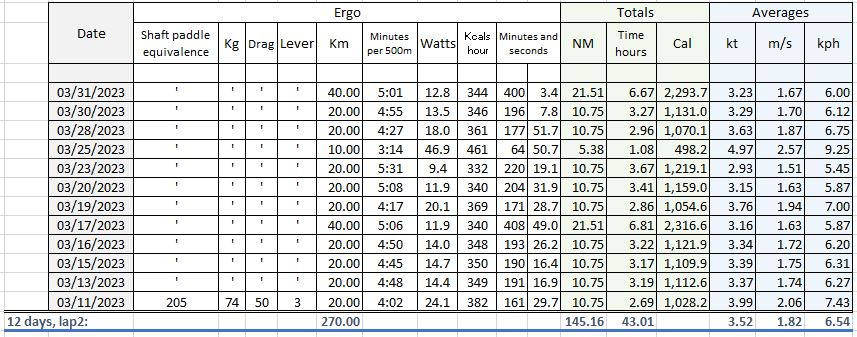
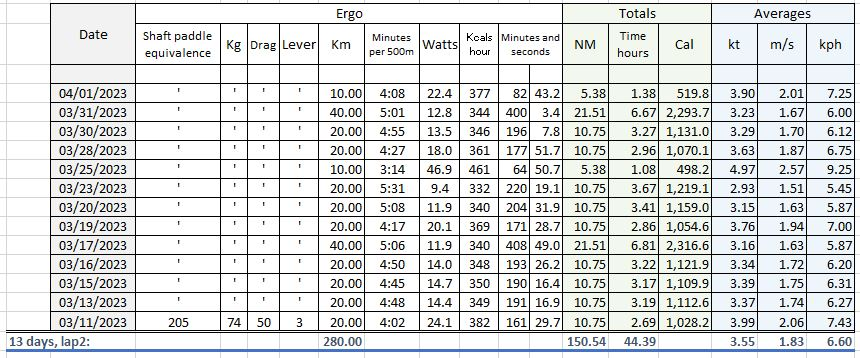
updates

diff --git a/dry-run/log/index.html b/dry-run/log/index.html
@@ -214,11 +214,11 @@ $(document).ready(function(){
 <p>This is not the actual trip. This is just training mapped on chart to have an idea of what the real thing might be.</p>
 </blockquote>
 <blockquote>
-<p>March 31, 2023, lap2</p>
+<p>April 1, 2023, lap2</p>
 </blockquote>
-<p><img src="/img/mar31.JPG" alt="March 31">
+<p><img src="/img/apr1.JPG" alt="April 1">
 <div style="text-align: center">
-12 days on ergo, 145 nautical miles, 270 km, lap2
+13 days on ergo, 150.5 nautical miles, 280 km, lap2
 </div>
 </p>
 <p><img src="/img/Stats2.JPG" alt="Stats">
